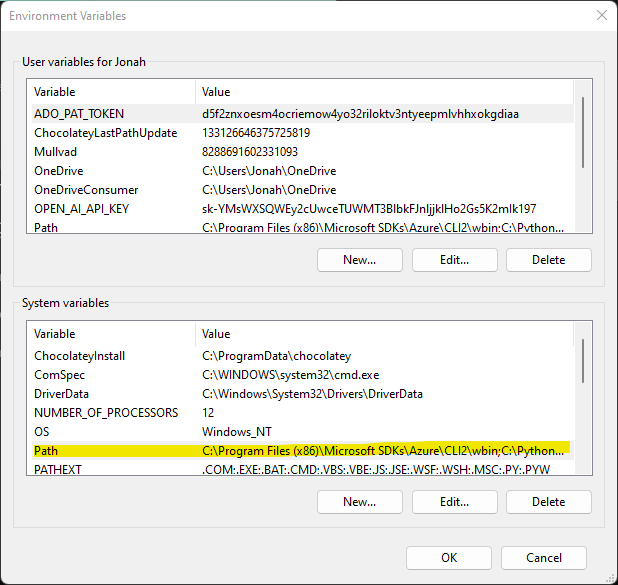
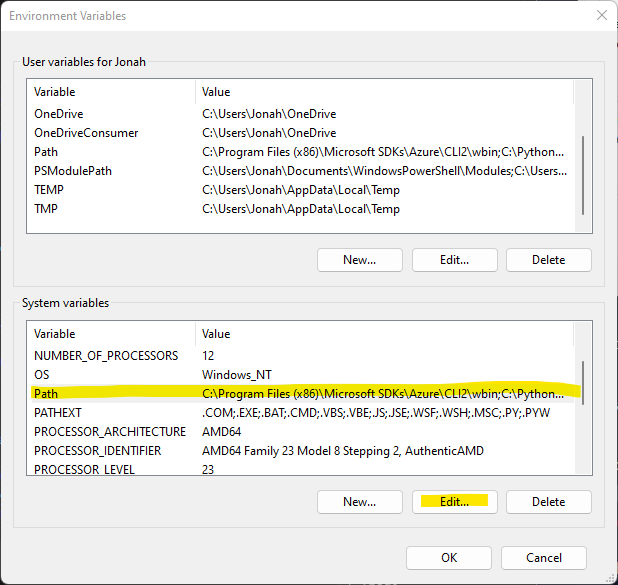
adding env variables back

diff --git a/posts/de-zc-w1-2.md b/posts/de-zc-w1-2.md
@@ -92,7 +92,7 @@ Adding an application to the system path may be simple concept to some, but for 
 For example, I've installed the Google Cloud SDK in the following location: `C:\Tools\google-cloud-sdk\`. Now that it's installed, we will weed to open `Environmental Variables` under our `System Properties`. An easy way to do this is to press the Windows key and search `Environmental Variables` and there should be an option that says `edit the system environmental variables`. Select this and you should see the following: ![system-properties](/de-zc/w1/system-properties.png)
 
 Select `Environmental Variables` at the bottom and you should now see a list of system variables, including your Path: 
-![env-variables]()
+![env-variables](/de-zc/w1/env-variables.png)
 
 Now click `Edit` and we will want to add the location of our Google Cloud Shell to the System Path. Mine is located in `C:\Tools\google-cloud-sdk\` but this is not the Path we need to add. We need to add `C:\Tools\google-cloud-sdk\Cloud SDK\google-cloud-sdk\bin` which is the location of the Google Cloud executable scripts that we need to run our `gcloud` shell commands. 
 
